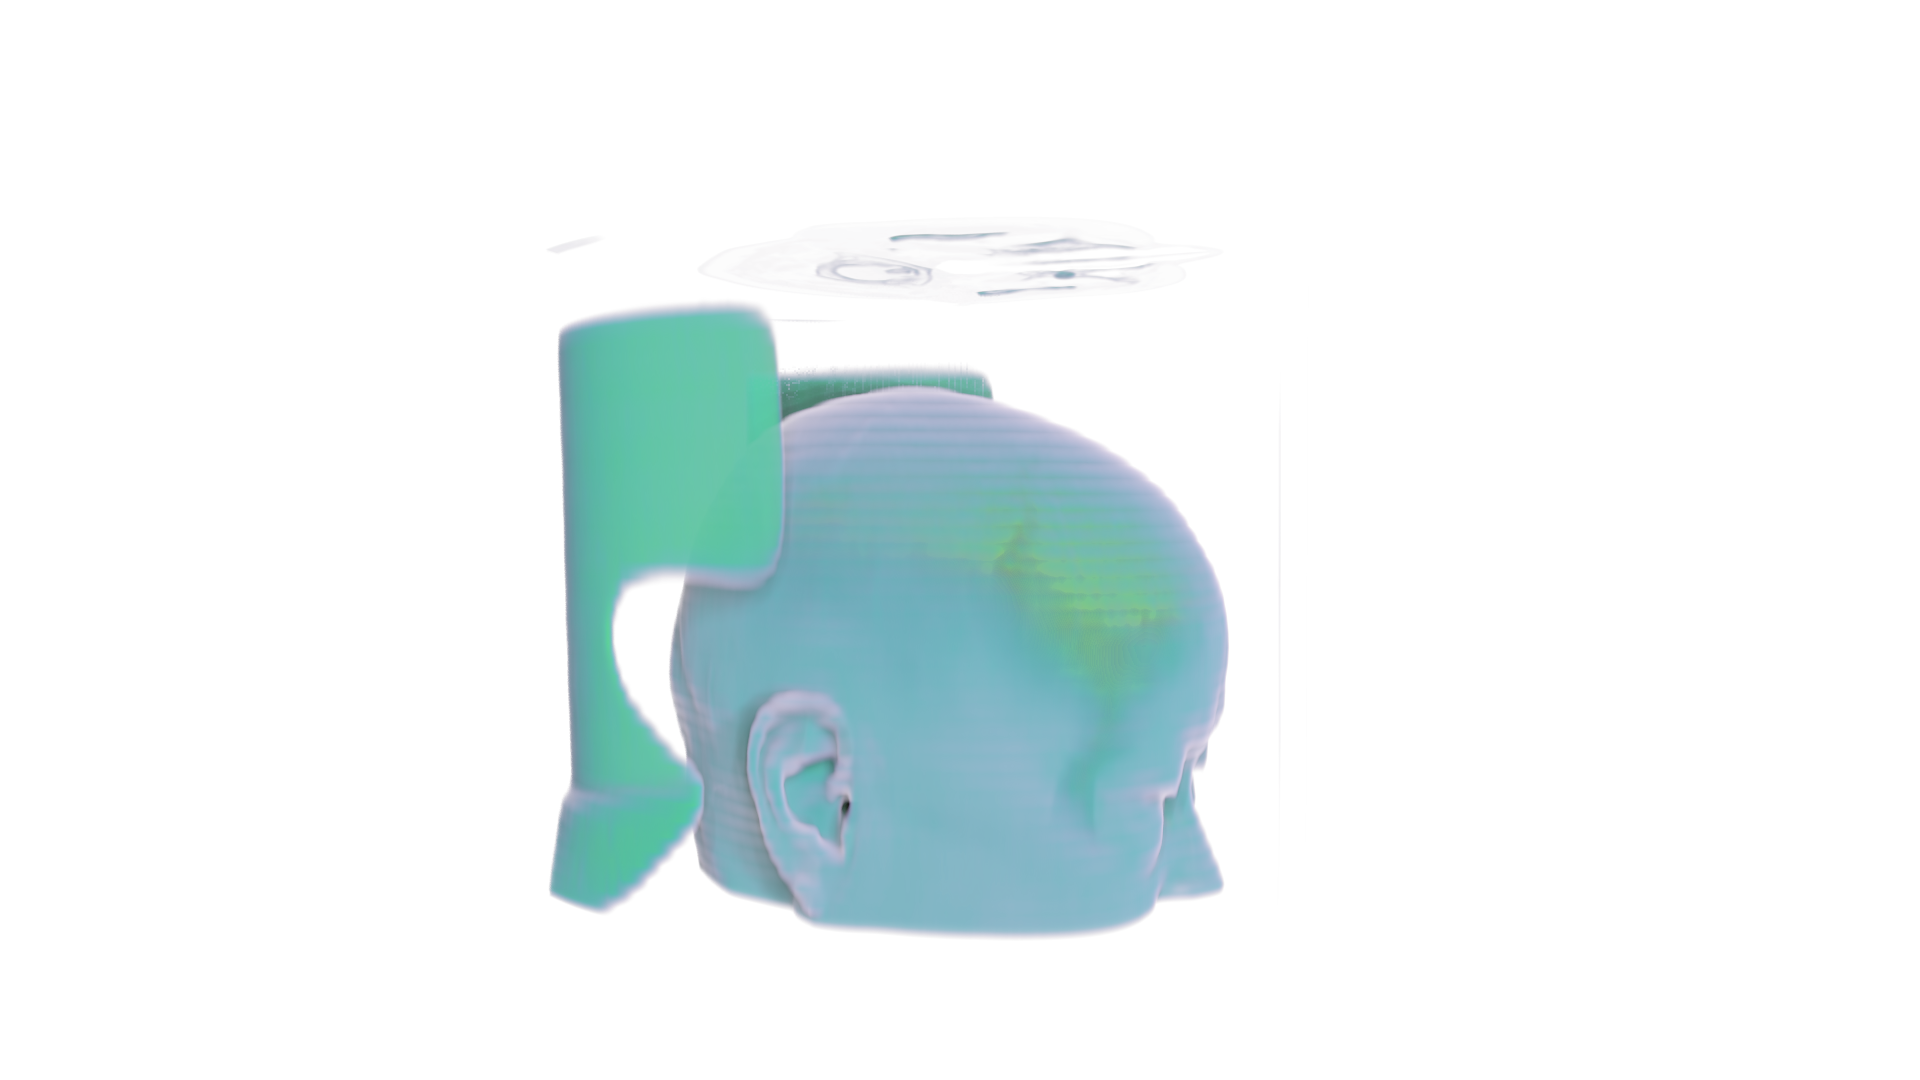
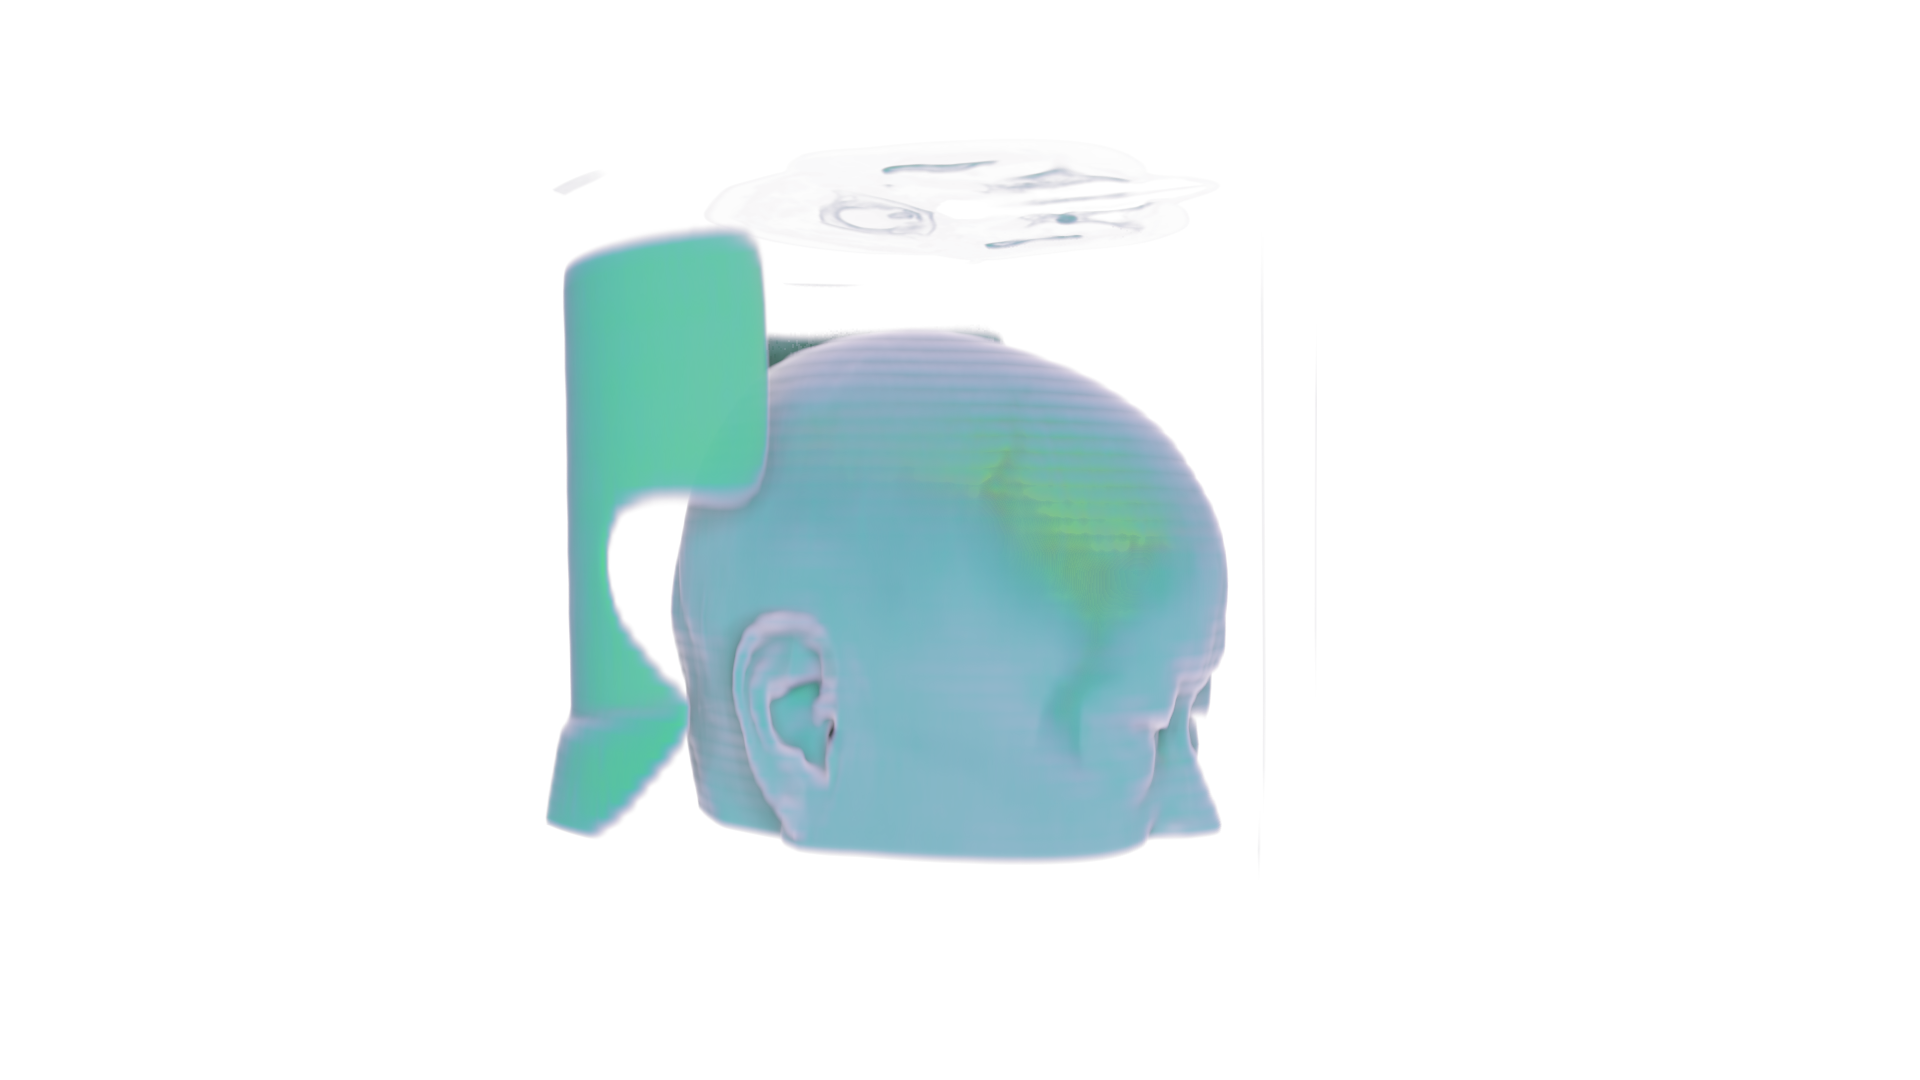
fix：论文补充

Changed region(s): [[0.2812, 0.1528, 0.6562, 0.8861]]

diff --git a/source/struct.h b/source/struct.h
@@ -159,6 +159,10 @@ struct ExampleConfig {
     glm::vec3(1.8618, 1.31775, 1.71523),
     glm::vec3(-0.6809, -0.408873, -0.607617),
     glm::vec3(-0.274107, 0.911624, -0.306278),
+-------------三视图角度----------
+    glm::vec3(0.5f, 0.5f, 2.5f),
+    glm::vec3(0.0f, 0.0f, -1.0f),
+    glm::vec3(0.0f, 1.0f, 0.0f),
 -------------nrrd angle 0-------------
     glm::vec3(0.0292941, 2.44313, 0.553435),
     glm::vec3(0.235348, -0.971544, -0.0267169),
@@ -181,13 +185,13 @@ struct ExampleConfig {
 static inline ExampleConfig head = {
     "head512*512*41",
     "C:\\Users\\Dream\\Documents\\00.Dicom\\ede6fe9eda6e44a98b3ad20da6f9116a Anonymized29\\Unknown Study\\CT Head 5.0000\\",
-    glm::vec3(0.0292941, 2.44313, 0.553435),
-    glm::vec3(0.235348, -0.971544, -0.0267169),
-    glm::vec3(-0.016332, 0.0235319, -0.99959),
-    250.0f, // windowCenter
-    250.0f, // windowWidth
+    glm::vec3(-1.36239, 1.2285, 0.530957),
+    glm::vec3(0.931176, -0.364242, -0.0154783),
+    glm::vec3(-0.0159918, 0.00160645, -0.999871),
+    1500.0f, // windowCenter
+    50.0f, // windowWidth
     0.001f, // stepLength
-    100.0f, // alphaCorrection
+    200.0f, // alphaCorrection
     1.5f // glow
 };
 

diff --git a/source/vulkan_application.cpp b/source/vulkan_application.cpp
@@ -1198,10 +1198,12 @@ void VulkanApplication::drawImGui() {
             std::cout << "falloffID: " << volumeRender->dicomParamControl.falloffID << std::endl;
         }
 
-        if (ImGui::SliderFloat("WinWidth", &volumeRender->dicomParamControl.windowWidth, 0.0f, 6000.0f)) {
+        // if (ImGui::SliderFloat("WinWidth", &volumeRender->dicomParamControl.windowWidth, 0.0f, 6000.0f)) {
+        if (ImGui::InputFloat("WinWidth", &volumeRender->dicomParamControl.windowWidth, 0.1f, 1.0f, "%.1f")) {
             computeResources.isComplete = false;
         }
-        if (ImGui::SliderFloat("WinCenter", &volumeRender->dicomParamControl.windowCenter, 0.0f, 6000.0f)) {
+        // if (ImGui::SliderFloat("WinCenter", &volumeRender->dicomParamControl.windowCenter, 0.0f, 6000.0f)) {
+        if (ImGui::InputFloat("WinCenter", &volumeRender->dicomParamControl.windowCenter, 0.1f, 1.0f, "%.1f")) {
             computeResources.isComplete = false;
         }
 

diff --git a/source/vulkan_application.h b/source/vulkan_application.h
@@ -220,7 +220,7 @@ private:
 	// bool isLowResolution = false; // *是否使用低分辨率,同时需要设置generateExtinctionCoefMipmap.comp和generateExtinctionCoef.comp中的低分辨率宏
 	bool isCustomResolution = true; // *是否使用自定义分辨率
 	int customResolution = 512; // *自定义分辨率
-	int currentExampleID = 6; // * 当前的示例ID
+	int currentExampleID = 0; // * 当前的示例ID
 	// int lowResVal=128; // *低分辨率值
 	int currentLUTID = 0; // *当前的LUT ID
 	double preComputeTime = 0.0; // *预计算的时间
@@ -1940,7 +1940,7 @@ private:
 
 		currentFrame = (currentFrame + 1) % MAX_FRAMES_IN_FLIGHT;
 
-
+		//computeResources.isComplete = false;
 	}
 
 	VkShaderModule createShaderModule(const std::vector<unsigned char>& code) {

diff --git a/capture/picEdit.py b/capture/picEdit.py
@@ -67,10 +67,10 @@ def setConfig(curID, angleID, wlwwID):
 
 # 主函数
 # for head
-folderPath = setConfig(0, 0, 0)
+folderPath = setConfig(0, 1, 1)
 savePath = 'capture/paper_res'
-padding = (330,650)
-size = (600, 600)
+padding = (250,540)
+size = (625, 700)
 
 # for mouse
 # folderPath = setConfig(1, 0, 0)
